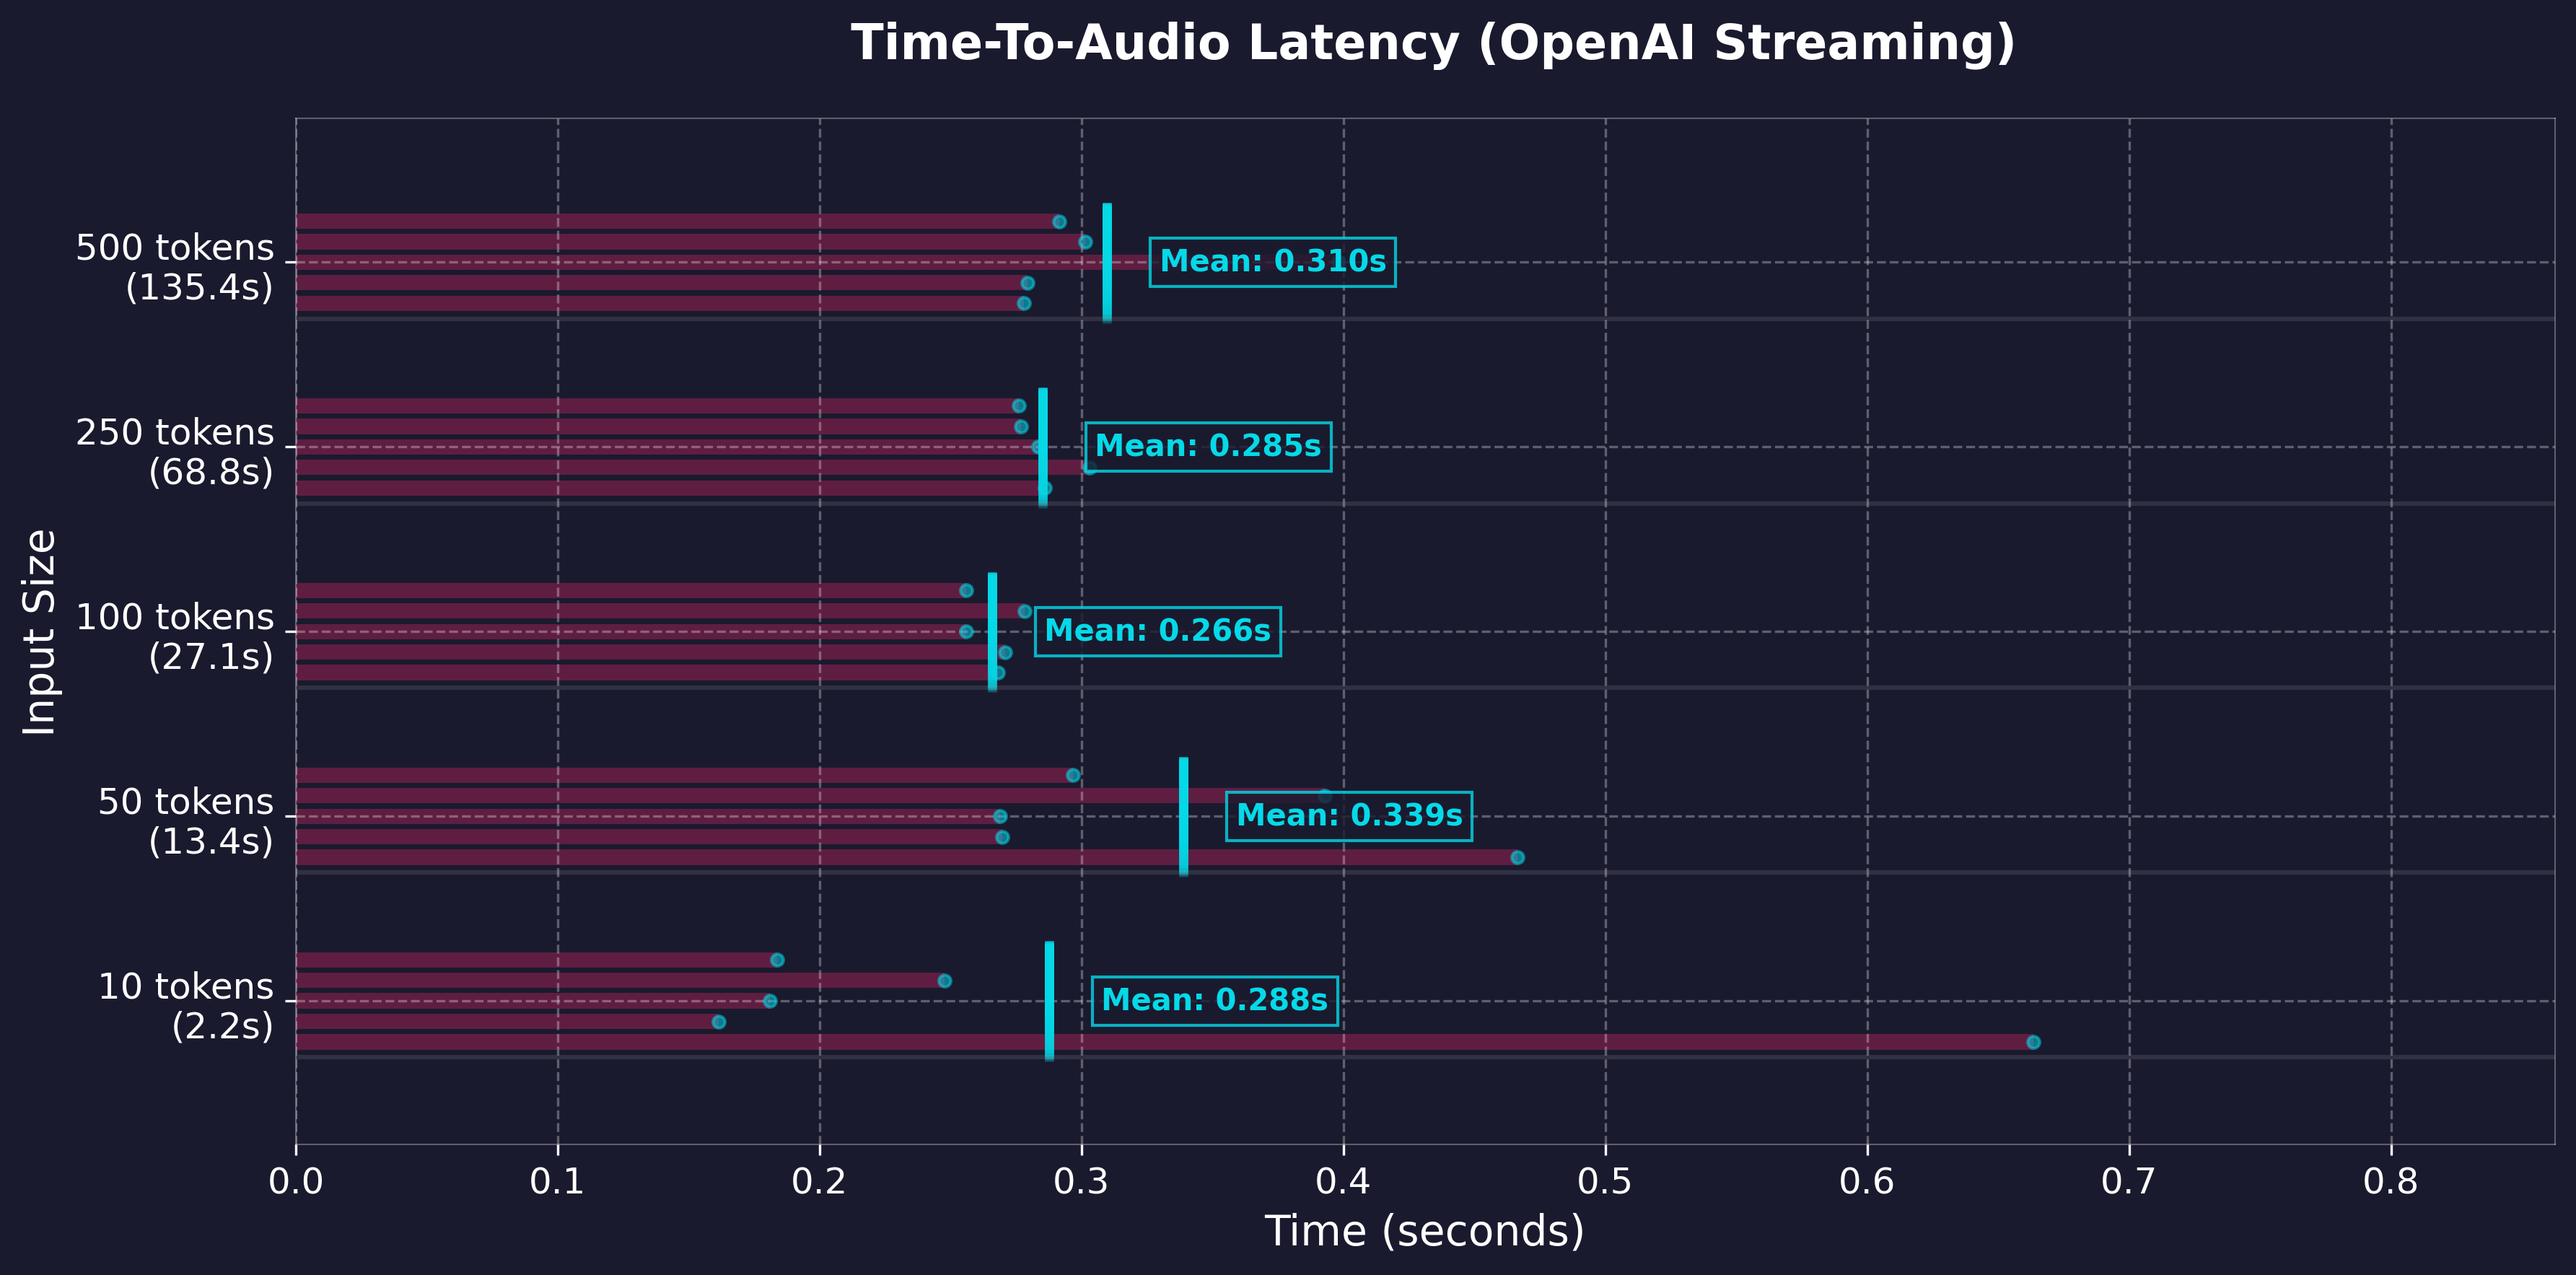
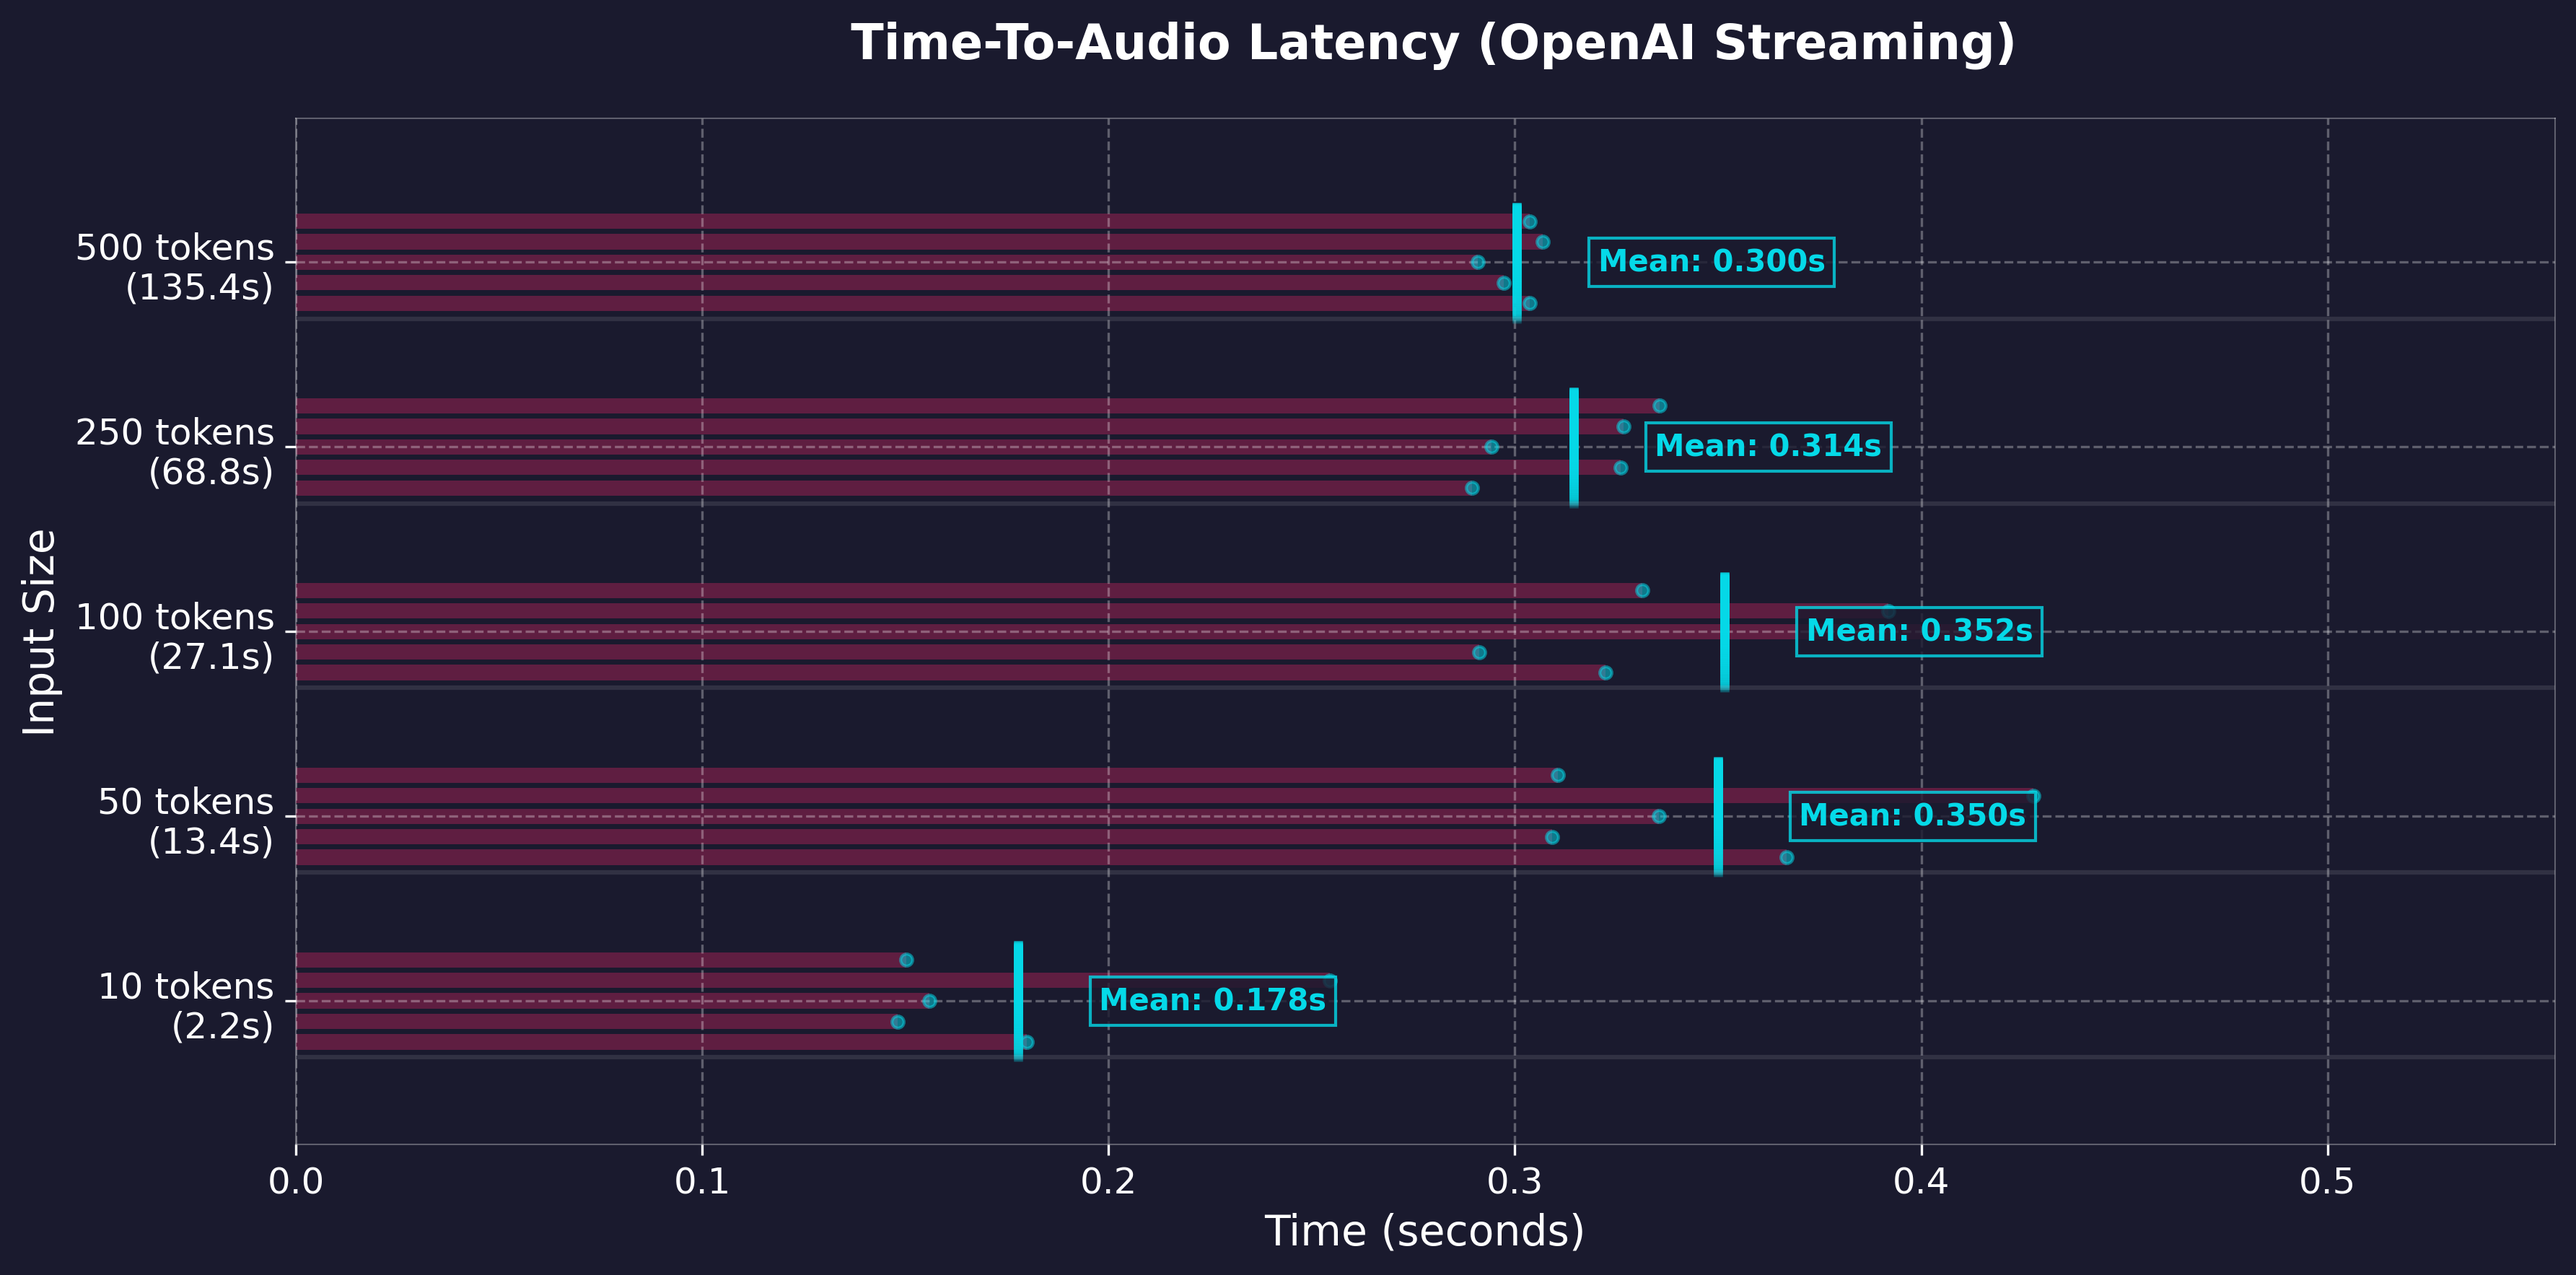
docs(benchmark): update benchmark plots with new stats

diff --git a/examples/assorted_checks/benchmarks/benchmark_first_token_stream_unified.py b/examples/assorted_checks/benchmarks/benchmark_first_token_stream_unified.py
@@ -183,6 +183,11 @@ def main():
     )
     # Run OpenAI benchmark
     print("\n=== Running OpenAI Library Benchmark ===")
+    with OPENAI_CLIENT.audio.speech.with_streaming_response.create(
+        model="kokoro", voice="af_heart", response_format="pcm", input="Warmup."
+    ) as warmup:
+        for _ in warmup.iter_bytes(chunk_size=1024):
+            pass
     run_benchmark(
         measure_first_token_openai,
         output_dir=os.path.join(script_dir, "output_audio_stream_openai"),
